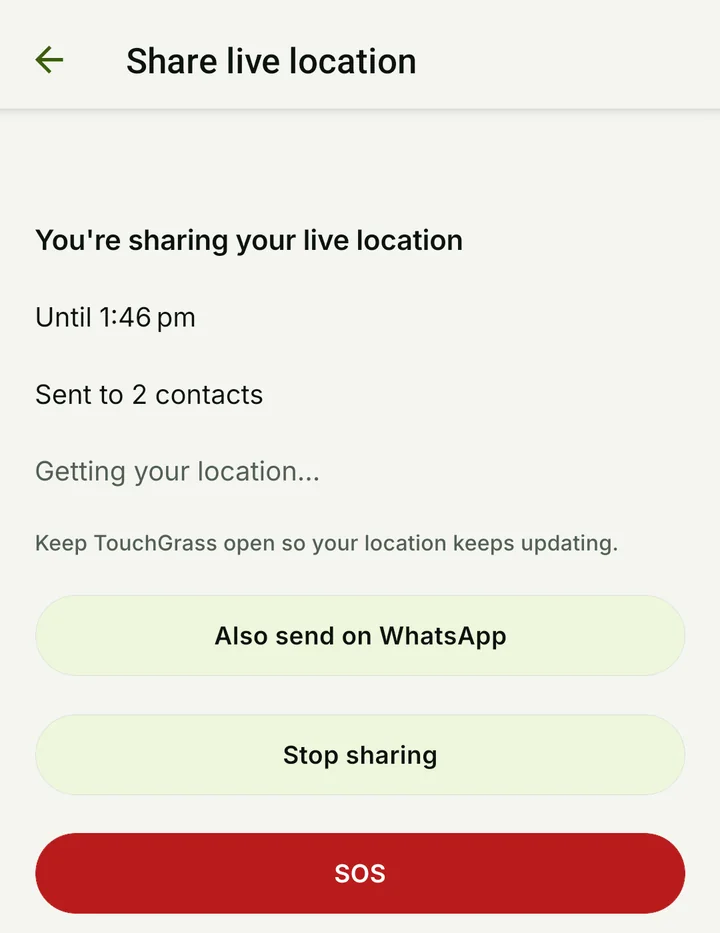
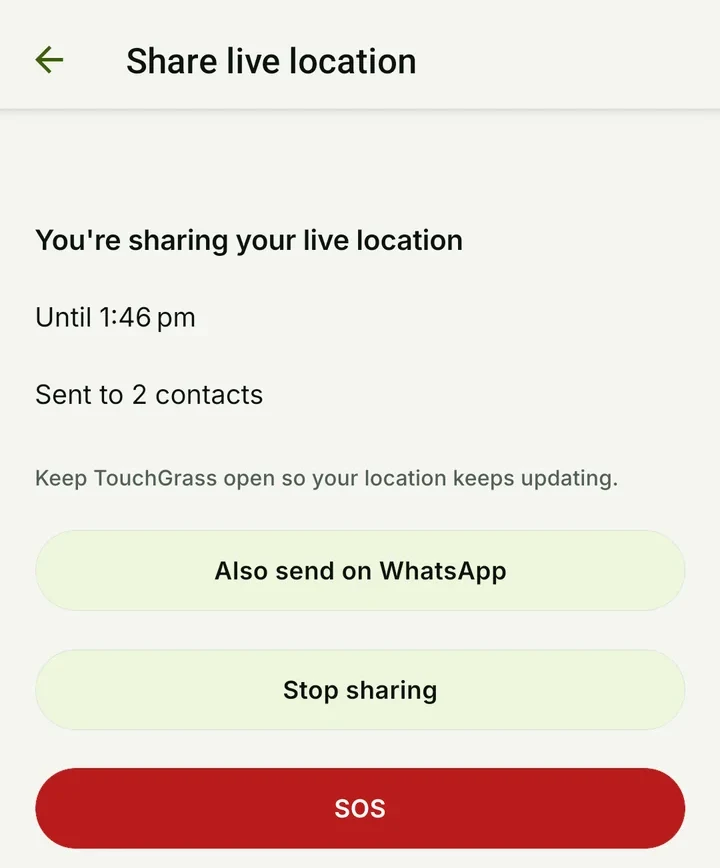
Landing: SOS screen without loading line, safety caption below the screen
Claude-Session: https://claude.ai/code/session_01WZArwVswyLt3gYSECMbyR6

diff --git a/apps/web/app/page.tsx b/apps/web/app/page.tsx
@@ -26,7 +26,7 @@ const SHOTS = {
   pullingUp: { src: '/landing/pulling-up.webp', width: 720, height: 787 },
   chats: { src: '/landing/chats.webp', width: 720, height: 707 },
   neighbourhood: { src: '/landing/neighbourhood.webp', width: 720, height: 427 },
-  liveLocation: { src: '/landing/live-location.webp', width: 720, height: 933 },
+  liveLocation: { src: '/landing/live-location.webp', width: 720, height: 868 },
 } as const;
 
 /** "Log off. Pull up." keeps each sentence on its own unbroken line, so phones never split "Pull / up." */

diff --git a/apps/web/app/_landing/landing.css b/apps/web/app/_landing/landing.css
@@ -572,12 +572,13 @@ body {
 .lp-safety-shot {
   position: relative;
   width: min(100%, 24rem);
-  margin-bottom: var(--sp-md);
 }
 
+/* Sits under the screen so it never hides the SOS button. */
 .lp-safety-shot .lp-sticker {
-  bottom: calc(-1 * var(--sp-md));
-  right: calc(-1 * var(--sp-xs));
+  position: relative;
+  display: inline-block;
+  margin: calc(-1 * var(--sp-xs)) 0 0 var(--sp-md);
 }
 
 .lp-safety-text {
